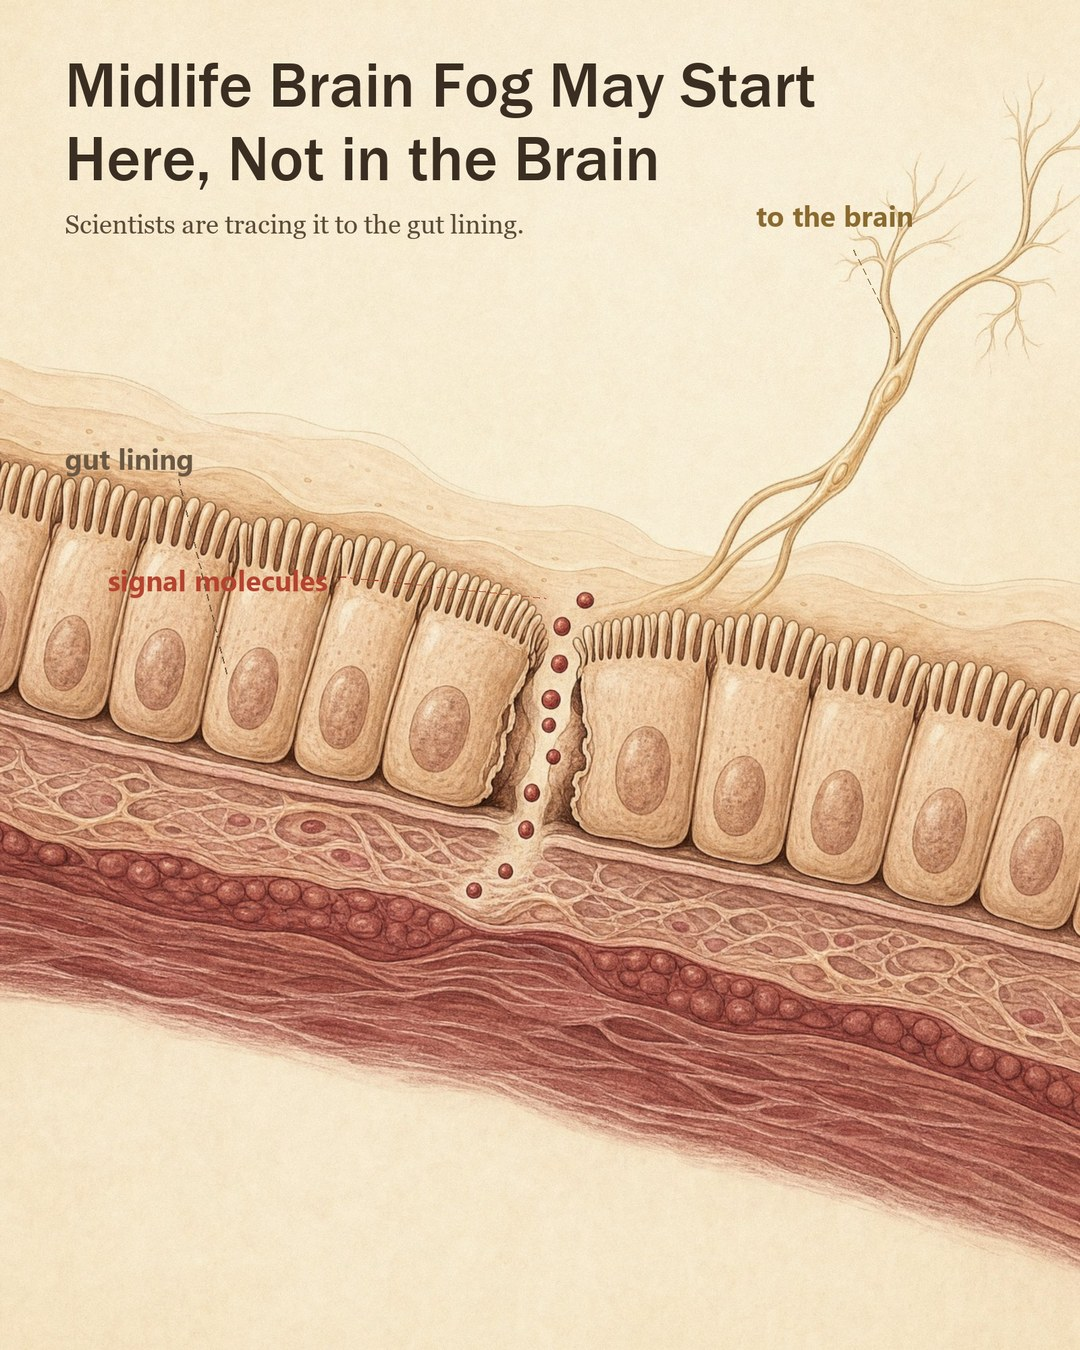
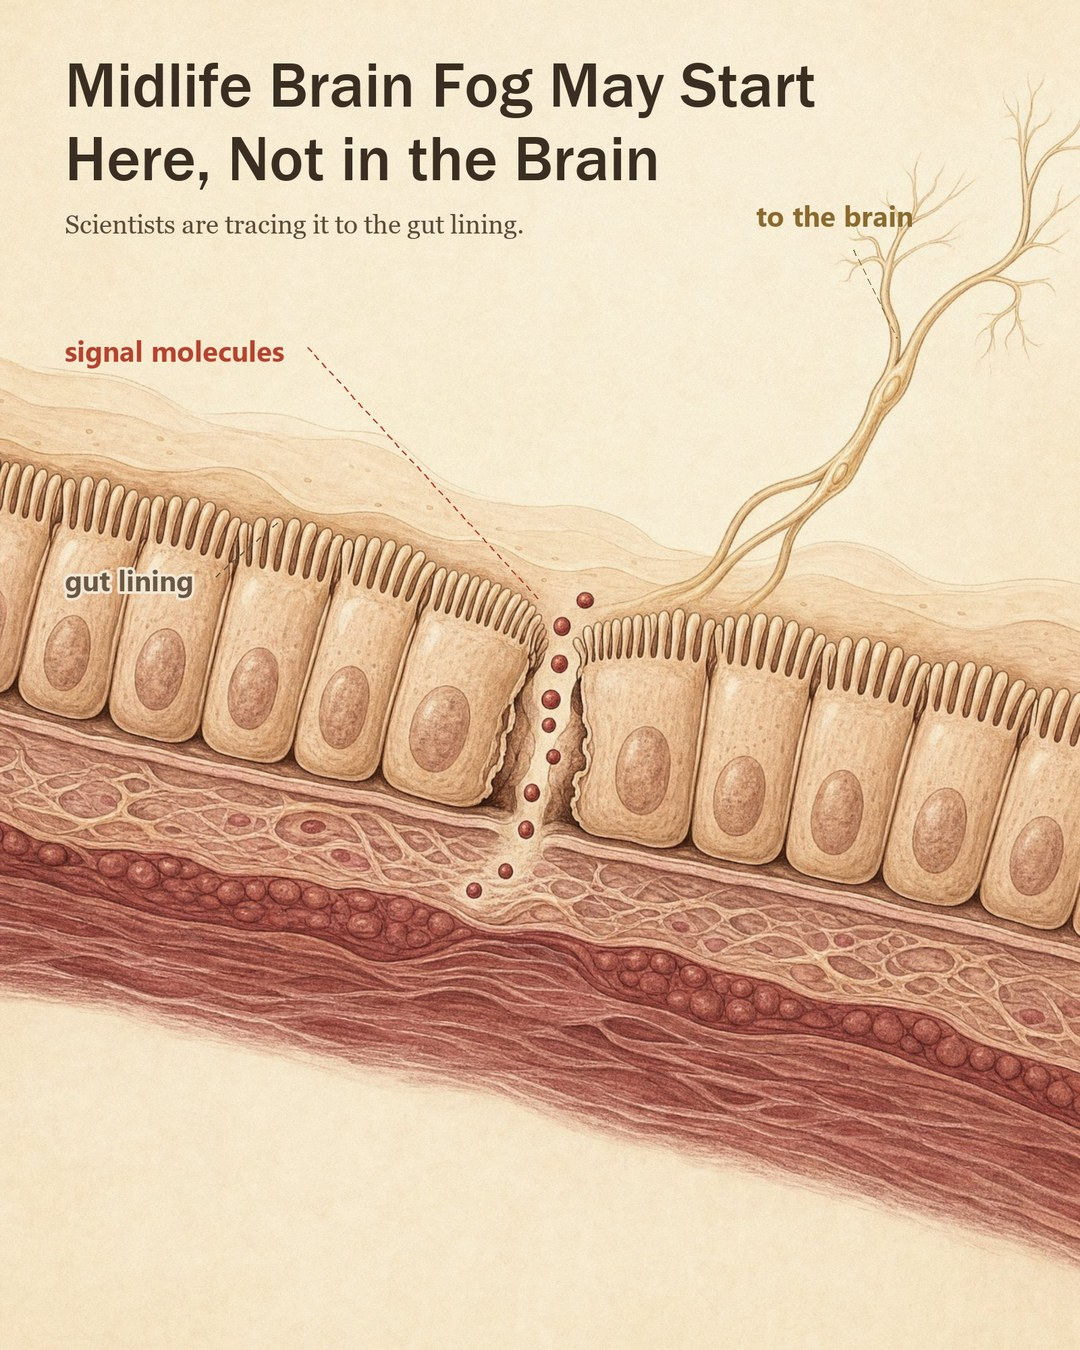
fix(sk-bold): adB leader points at the gut dot; adA labels readable
adB 'it starts here' was pointing at the pelvis; leader now runs to the
baked-in belly marker. adA 'signal molecules' moved onto clear paper,
'gut lining' gets a paper-colored halo. Compositor gains optional halo
stroke + per-label font.

Changed region(s): [[0.0611, 0.4044, 0.3056, 0.4667], [0.0611, 0.3111, 0.1833, 0.3733], [0.0611, 0.2489, 0.275, 0.28]]

diff --git a/scripts/ad_text_overlay.py b/scripts/ad_text_overlay.py
@@ -19,6 +19,8 @@ Spec schema (all coords are 0-1 fractions of canvas width/height):
     {"text": "vagus nerve", "color": "#9AA0A6", "size": 0.021,
      "tx": 0.14, "ty": 0.35, "lx1": 0.30, "ly1": 0.357, "lx2": 0.46, "ly2": 0.357}
   ],
+  # blocks and labels accept "halo": "#F2E8D5" — paper-colored text stroke so
+  # copy stays readable over busy artwork; labels accept "font" (default sans)
   "out_size": [1080, 1620]
 }
 """
@@ -90,15 +92,21 @@ def render(background: Path, spec_path: Path, out_path: Path) -> None:
         x = int(w * block["x"])
         y = int(h * block["y"])
         spacing = block.get("line_spacing", 1.22)
+        halo = block.get("halo")
+        stroke = max(2, int(h * block["size"] * 0.10)) if halo else 0
         for line in block["text"].split("\n"):
-            draw.text((x, y), line, font=font, fill=block["color"])
+            draw.text((x, y), line, font=font, fill=block["color"],
+                      stroke_width=stroke, stroke_fill=halo)
             y += int(h * block["size"] * spacing)
 
     for label in spec.get("labels", []):
-        font = load_font("sans", int(h * label["size"]))
+        font = load_font(label.get("font", "sans"), int(h * label["size"]))
+        halo = label.get("halo")
+        stroke = max(2, int(h * label["size"] * 0.10)) if halo else 0
         draw.text(
             (int(w * label["tx"]), int(h * label["ty"])),
             label["text"], font=font, fill=label["color"],
+            stroke_width=stroke, stroke_fill=halo,
         )
         draw_dashed(
             draw,
